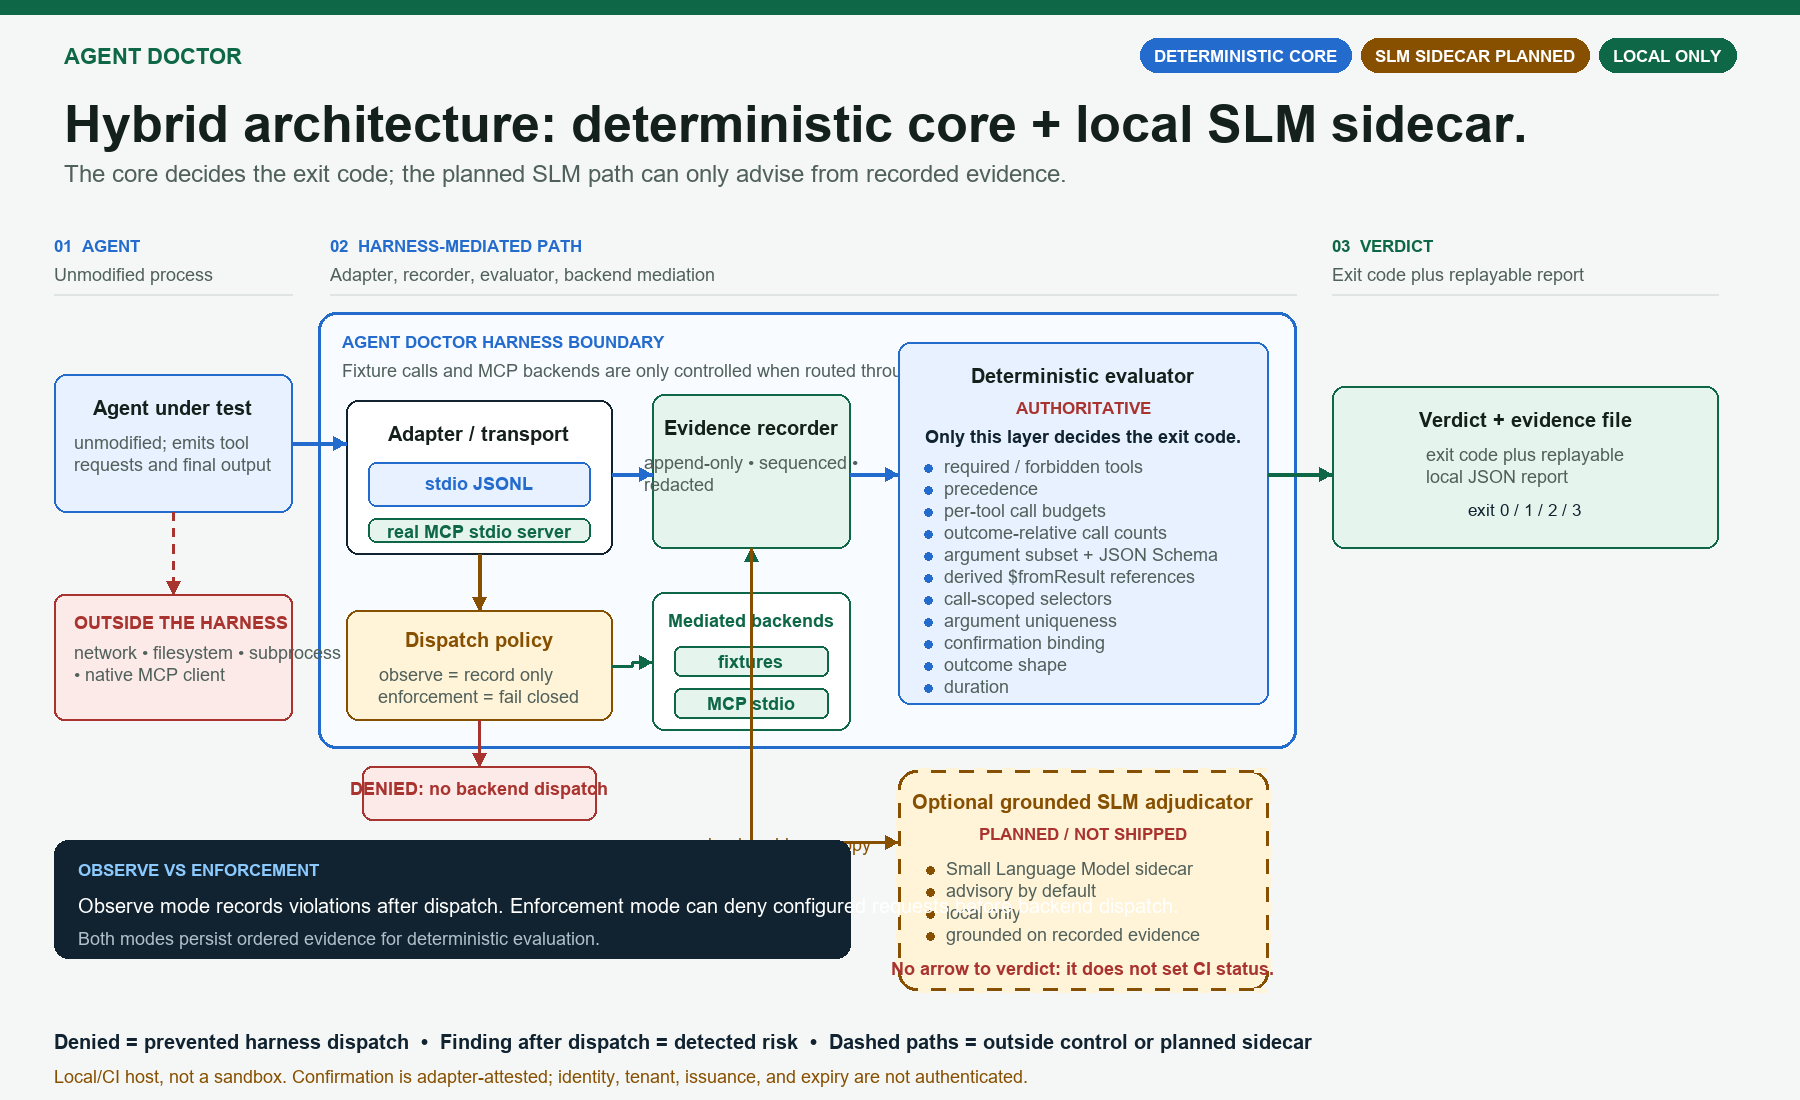
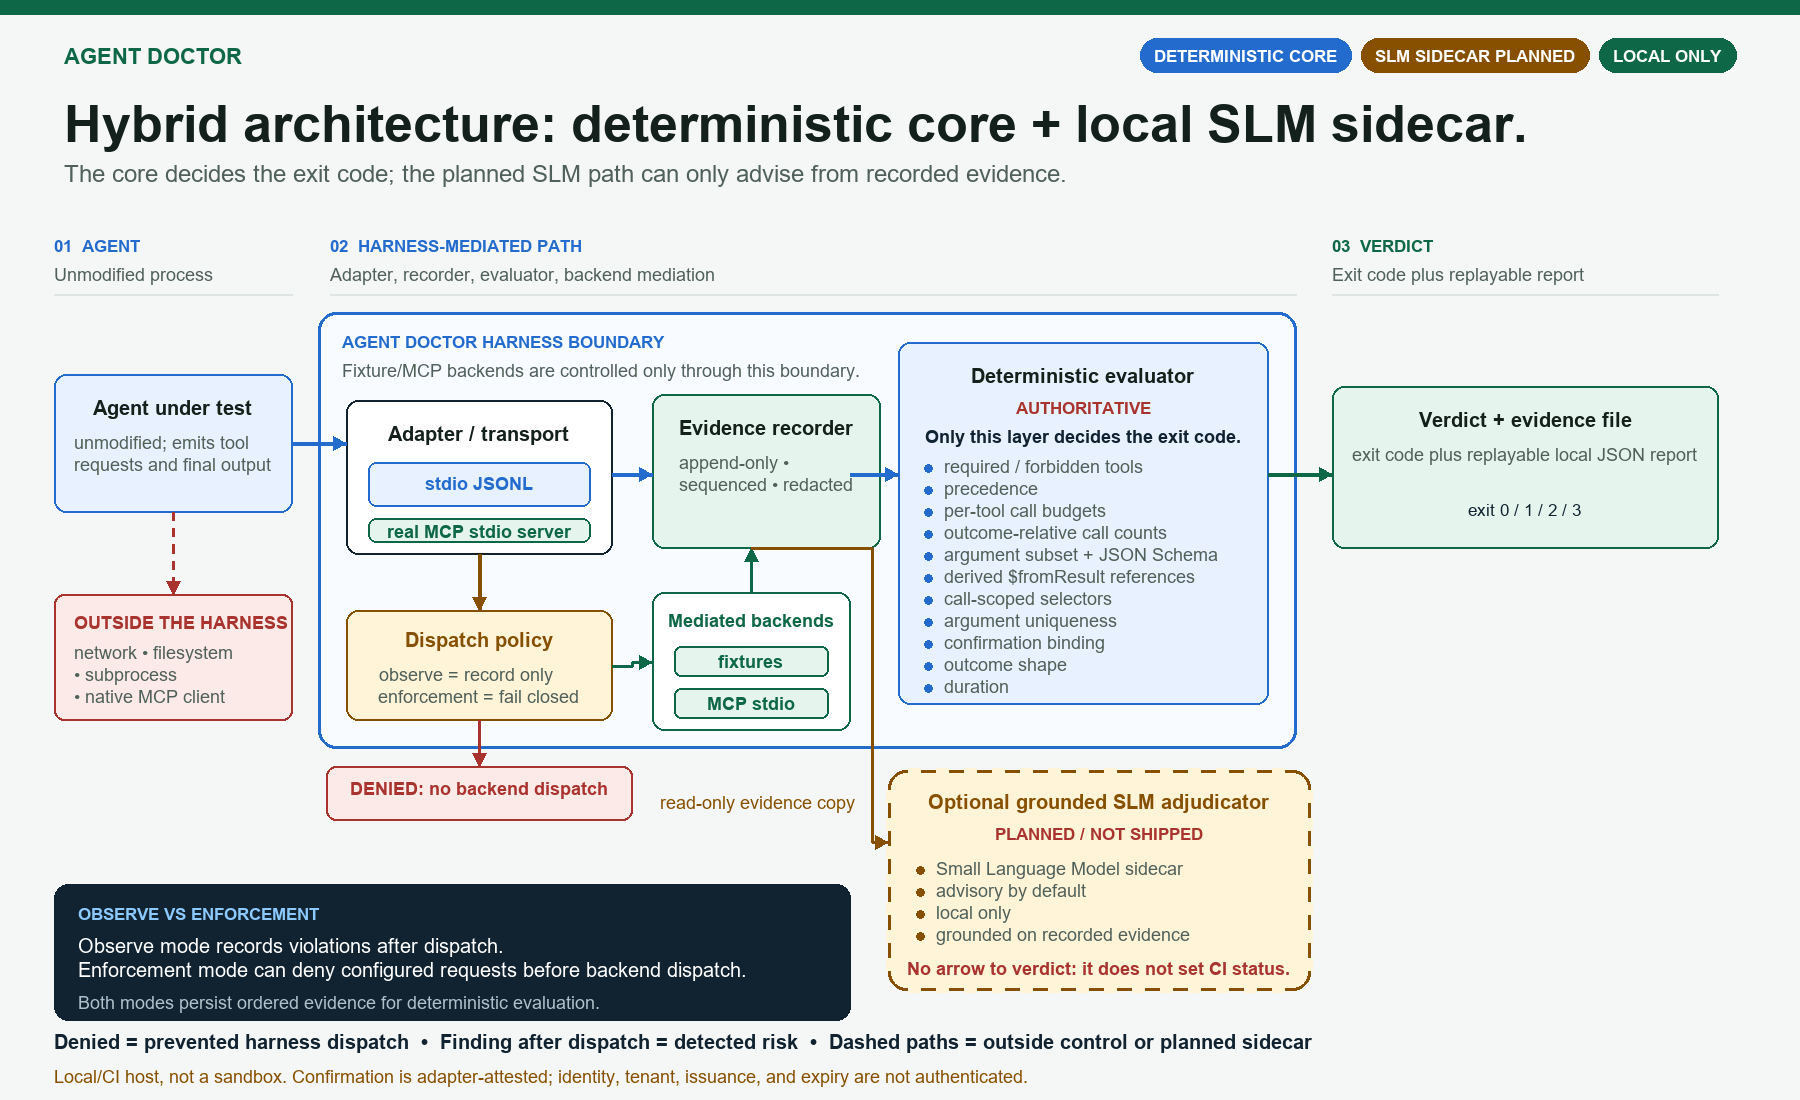
Fail the architecture render when boxes or text collide
The diagram had four overlapping regions that shipped unnoticed: the evaluator
box covered the end of the harness boundary subtitle, the observe/enforcement
panel ran over the DENIED box, the SLM arrow label was occluded, and the
evidence recorder subtitle overflowed its box. Every one of them was found by
opening the PNG, which is exactly the review step that does not scale.

Add a layout audit that computes the bounding rectangle of every box and the
measured bounding box of every text run, then refuses to render if any two
non-nested boxes intersect, if text lands inside a box that is not its parent,
or if a line exceeds its parent's inner width. The render now raises rather than
writing a defective asset.

Widen the evidence recorder so its title fits and move the read-only evidence
copy label out of the DENIED box, which is what the audit reported.

An image asserting that this project is deterministic should not ship with
overlapping boxes because someone eyeballed it.

diff --git a/scripts/render-marketing-image.py b/scripts/render-marketing-image.py
@@ -390,7 +390,7 @@ def assert_architecture_layout(draw):
         ("adapter", (346, 400, 612, 554), "harness"),
         ("adapter-stdio", (368, 462, 590, 506), "adapter"),
         ("adapter-mcp", (368, 518, 590, 542), "adapter"),
-        ("recorder", (652, 394, 850, 548), "harness"),
+        ("recorder", (652, 394, 880, 548), "harness"),
         ("evaluator", (898, 342, 1268, 704), "harness"),
         ("verdict", (1332, 386, 1718, 548), None),
         ("policy", (346, 610, 612, 720), "harness"),
@@ -449,12 +449,12 @@ def assert_architecture_layout(draw):
         ("adapter-title", "Adapter / transport", BODY_BOLD, (479, 422), "adapter", "ma"),
         ("adapter-stdio-text", "stdio JSONL", SMALL_BOLD, (479, 473), "adapter-stdio", "ma"),
         ("adapter-mcp-text", "real MCP stdio server", SMALL_BOLD, (479, 521), "adapter-mcp", "ma"),
-        ("recorder-title", "Evidence recorder", BODY_BOLD, (751, 416), "recorder", "ma"),
+        ("recorder-title", "Evidence recorder", BODY_BOLD, (766, 416), "recorder", "ma"),
         (
             "recorder-subtitle",
             wrapped_for("recorder", "append-only • sequenced • redacted"),
             SMALL,
-            (751, 452),
+            (766, 452),
             "recorder",
             "ma",
         ),
@@ -517,7 +517,7 @@ def assert_architecture_layout(draw):
             "sidecar",
             "ma",
         ),
-        ("evidence-copy-label", "read-only evidence copy", SMALL, (620, 806), None, None),
+        ("evidence-copy-label", "read-only evidence copy", SMALL, (660, 792), None, None),
         (
             "observe-title",
             "OBSERVE VS ENFORCEMENT",
@@ -650,7 +650,7 @@ def render_architecture():
 
     node(
         draw,
-        (652, 394, 850, 548),
+        (652, 394, 880, 548),
         "Evidence recorder",
         "append-only • sequenced • redacted",
         GREEN_LIGHT,
@@ -755,7 +755,7 @@ def render_architecture():
         AMBER,
         3,
     )
-    write(draw, (620, 806), "read-only evidence copy", SMALL, AMBER)
+    write(draw, (660, 792), "read-only evidence copy", SMALL, AMBER)
     write(draw, (1099, 958), "No arrow to verdict: it does not set CI status.", SMALL_BOLD, RED, anchor="ma")
 
     strip = (54, 884, 850, 1020)
